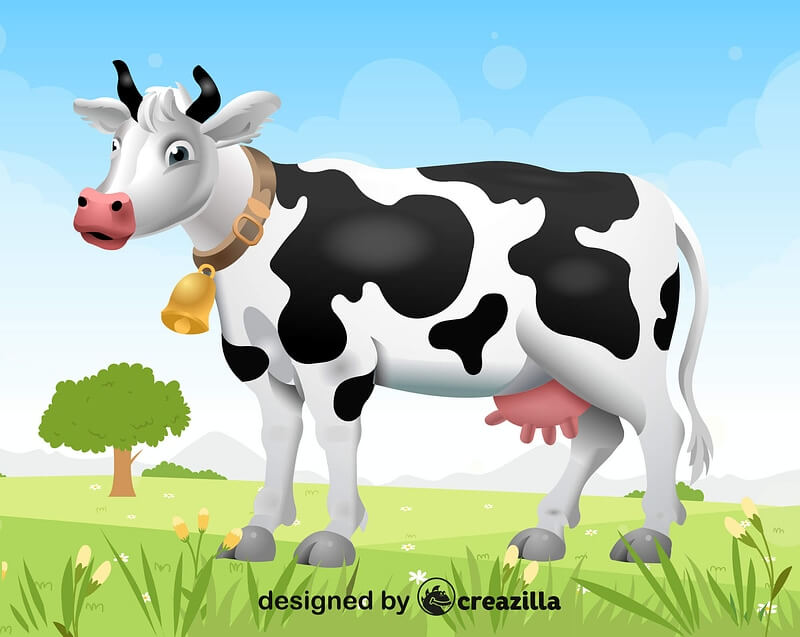
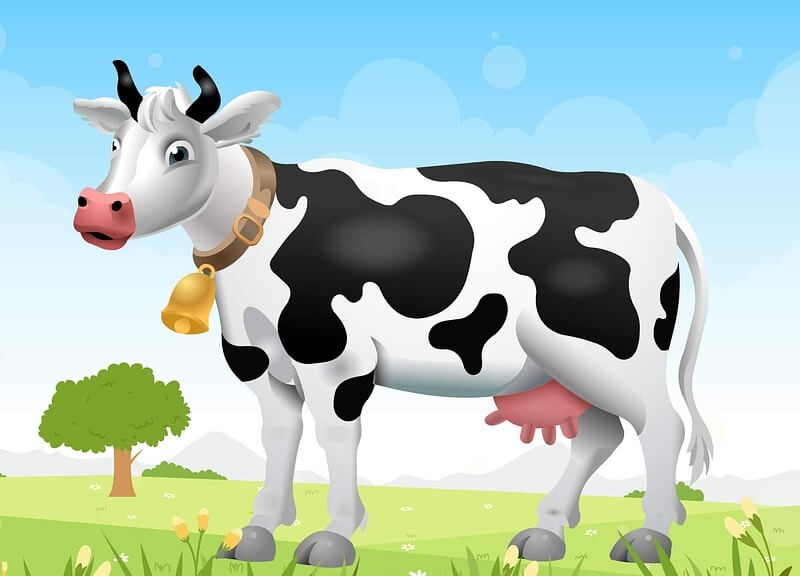
all page footer update and cow image update

diff --git a/index.html b/index.html
@@ -76,8 +76,8 @@
             </div>
 
             <div class="feature-section-info-1">
-                <img src="image/treatment.png" alt="">
-                <p>Quick Facts</p>
+                <a href="about.html"><img src="image/treatment.png" alt="">
+                <p>Quick Facts</p></a>
             </div>
 
             <div class="feature-section-info-1">
@@ -91,13 +91,13 @@
             </div>
 
             <div class="feature-section-info-1">
-                <img src="favicon_io/apple-touch-icon.png" alt="">
-                <p>How are we Different</p>
+                <a href="about.html"><img src="favicon_io/apple-touch-icon.png" alt="">
+                <p>How are we Different</p></a>
             </div>
 
             <div class="feature-section-info-1">
-                <img src="image/monitoring-icon.png" alt="">
-                <p>Our Monitoring </p>
+                <a href="#bod"><img src="image/monitoring-icon.png" alt="">
+                <p>Our Monitoring </p></a>
             </div>
         </div>
 
@@ -328,7 +328,6 @@
         <div class="container flex footer-content" style="align-items: flex-start;">
           <div class="footer-content-col-1">
             <h3>CONTACT INFO</h3>
-            <p>To serve the homeless helpless destitute sick persons who are facing a very painful phase of life, the Organization established Matra Chhaya Anath Ashram Residential Home for the Destitute.</p>
       
             <p class="text-center"><i class="fa-solid fa-house"></i> &nbsp;&nbsp;  KAMAKSHI MAHILA SEVA SANSTHAN <br/><br>
                FLAT NO. 302, AAKASH GANGA COMPLEX, SAVINA, 100 FEET LINK ROAD, 313001, UDAIPUR, RAJASTHAN.

diff --git a/about.html b/about.html
@@ -133,7 +133,6 @@
                     </div>
             
                 </div>
-
         </div>
 
     </section>
@@ -304,7 +303,6 @@
             <div class="container flex footer-content" style="align-items: flex-start;">
               <div class="footer-content-col-1">
                 <h3>CONTACT INFO</h3>
-                <p>To serve the homeless helpless destitute sick persons who are facing a very painful phase of life, the Organization established Matra Chhaya Anath Ashram Residential Home for the Destitute.</p>
           
                 <p><i class="fa-solid fa-house"></i> &nbsp;&nbsp;  KAMAKSHI MAHILA SEVA SANSTHAN <br/><br>
                    FLAT NO. 302, AAKASH GANGA COMPLEX, SAVINA, 100 FEET LINK ROAD, 313001, UDAIPUR, RAJASTHAN.

diff --git a/donation.html b/donation.html
@@ -115,8 +115,7 @@
 
         <div class="container flex footer-content" style="align-items: flex-start;">
           <div class="footer-content-col-1">
-            <h3>CONTACT INFO</h3>
-            <p>To serve the homeless helpless destitute sick persons who are facing a very painful phase of life, the Organization established Matra Chhaya Anath Ashram Residential Home for the Destitute.</p>
+            <h3>CONTACT INFO</h3>S
       
             <p><i class="fa-solid fa-house"></i> &nbsp;&nbsp;  KAMAKSHI MAHILA SEVA SANSTHAN <br/><br>
                FLAT NO. 302, AAKASH GANGA COMPLEX, SAVINA, 100 FEET LINK ROAD, 313001, UDAIPUR, RAJASTHAN.

diff --git a/kamakshi.html b/kamakshi.html
@@ -153,8 +153,6 @@
         <div class="container flex footer-content" style="align-items: flex-start;">
             <div class="footer-content-col-1">
                 <h3>CONTACT INFO</h3>
-                <p>To serve the homeless helpless destitute sick persons who are facing a very painful phase of life,
-                    the Organization established Matra Chhaya Anath Ashram Residential Home for the Destitute.</p>
 
                 <p><i class="fa-solid fa-house"></i> &nbsp;&nbsp; KAMAKSHI MAHILA SEVA SANSTHAN <br /><br>
                     FLAT NO. 302, AAKASH GANGA COMPLEX, SAVINA, 100 FEET LINK ROAD, 313001, UDAIPUR, RAJASTHAN.

diff --git a/letterToGod.html b/letterToGod.html
@@ -97,8 +97,6 @@
         <div class="container flex footer-content" style="align-items: flex-start;">
             <div class="footer-content-col-1">
                 <h3>CONTACT INFO</h3>
-                <p>To serve the homeless helpless destitute sick persons who are facing a very painful phase of life,
-                    the Organization established Matra Chhaya Anath Ashram Residential Home for the Destitute.</p>
 
                 <p><i class="fa-solid fa-house"></i> &nbsp;&nbsp; KAMAKSHI MAHILA SEVA SANSTHAN <br /><br>
                     FLAT NO. 302, AAKASH GANGA COMPLEX, SAVINA, 100 FEET LINK ROAD, 313001, UDAIPUR, RAJASTHAN.

diff --git a/ashram.html b/ashram.html
@@ -107,7 +107,6 @@
         <div class="container flex footer-content" style="align-items: flex-start;">
           <div class="footer-content-col-1">
             <h3>CONTACT INFO</h3>
-            <p>To serve the homeless helpless destitute sick persons who are facing a very painful phase of life, the Organization established Matra Chhaya Anath Ashram Residential Home for the Destitute.</p>
       
             <p><i class="fa-solid fa-house"></i> &nbsp;&nbsp;  KAMAKSHI MAHILA SEVA SANSTHAN <br/><br>
                FLAT NO. 302, AAKASH GANGA COMPLEX, SAVINA, 100 FEET LINK ROAD, 313001, UDAIPUR, RAJASTHAN.

diff --git a/contact.html b/contact.html
@@ -165,7 +165,6 @@
         <div class="container flex footer-content" style="align-items: flex-start;">
           <div class="footer-content-col-1">
             <h3>CONTACT INFO</h3>
-            <p>To serve the homeless helpless destitute sick persons who are facing a very painful phase of life, the Organization established Matra Chhaya Anath Ashram Residential Home for the Destitute.</p>
       
             <p><i class="fa-solid fa-house"></i> &nbsp;&nbsp;  KAMAKSHI MAHILA SEVA SANSTHAN <br/><br>
                FLAT NO. 302, AAKASH GANGA COMPLEX, SAVINA, 100 FEET LINK ROAD, 313001, UDAIPUR, RAJASTHAN.

diff --git a/gallery.html b/gallery.html
@@ -117,7 +117,6 @@
         <div class="container flex footer-content" style="align-items: flex-start;">
           <div class="footer-content-col-1">
             <h3>CONTACT INFO</h3>
-            <p>To serve the homeless helpless destitute sick persons who are facing a very painful phase of life, the Organization established Matra Chhaya Anath Ashram Residential Home for the Destitute.</p>
       
             <p><i class="fa-solid fa-house"></i> &nbsp;&nbsp;  KAMAKSHI MAHILA SEVA SANSTHAN <br/><br>
                FLAT NO. 302, AAKASH GANGA COMPLEX, SAVINA, 100 FEET LINK ROAD, 313001, UDAIPUR, RAJASTHAN.

diff --git a/gaushala.html b/gaushala.html
@@ -125,7 +125,6 @@
     <div class="container flex footer-content" style="align-items: flex-start;">
       <div class="footer-content-col-1">
         <h3>CONTACT INFO</h3>
-        <p>To serve the homeless helpless destitute sick persons who are facing a very painful phase of life, the Organization established Matra Chhaya Anath Ashram Residential Home for the Destitute.</p>
   
         <p class="text-center"><i class="fa-solid fa-house"></i> &nbsp;&nbsp;  KAMAKSHI MAHILA SEVA SANSTHAN <br/><br>
            FLAT NO. 302, AAKASH GANGA COMPLEX, SAVINA, 100 FEET LINK ROAD, 313001, UDAIPUR, RAJASTHAN.
